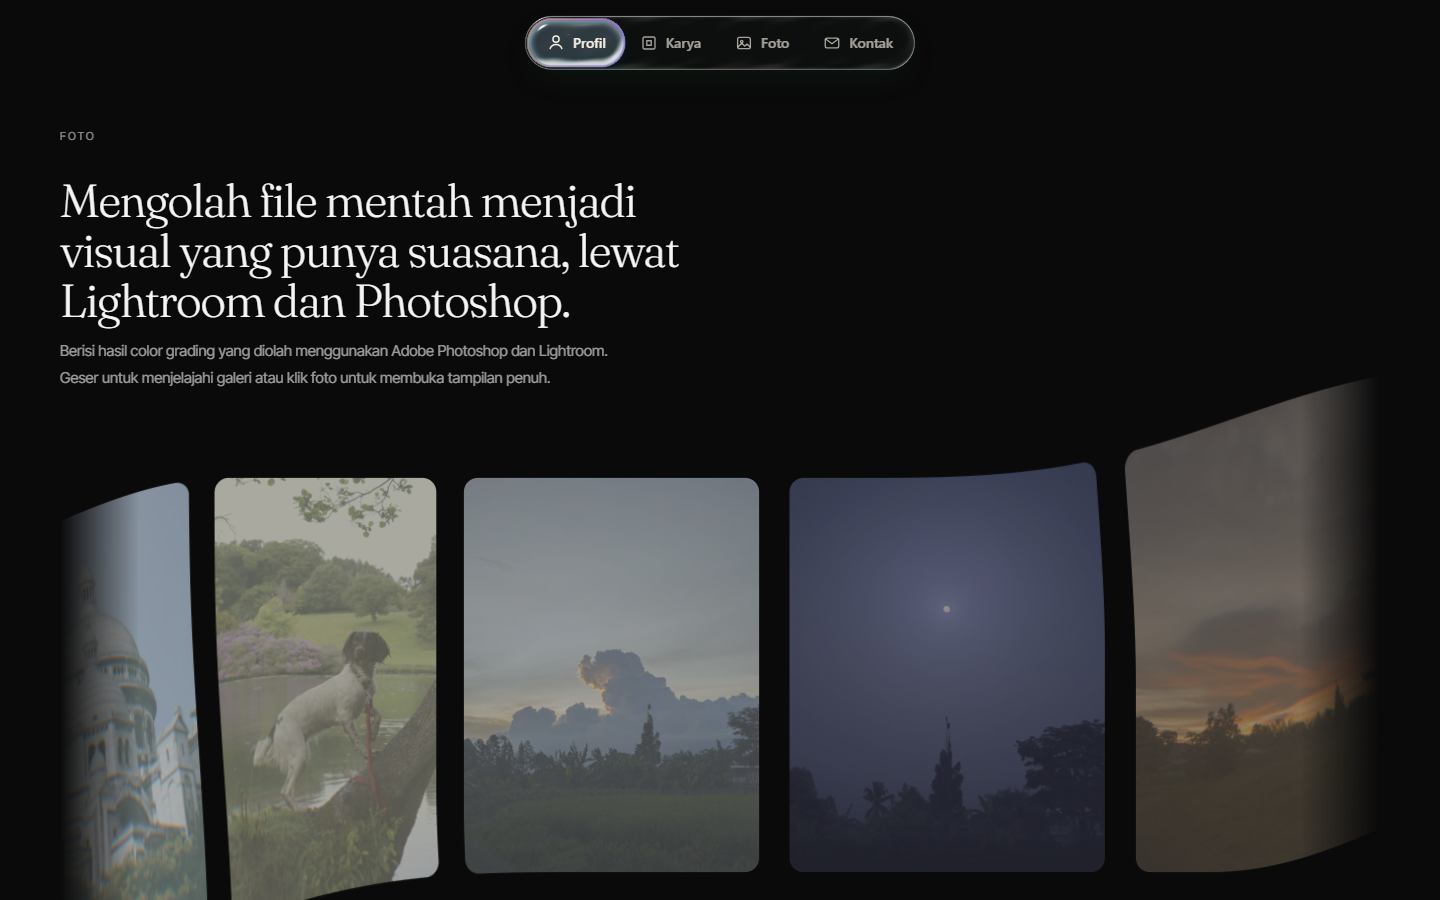
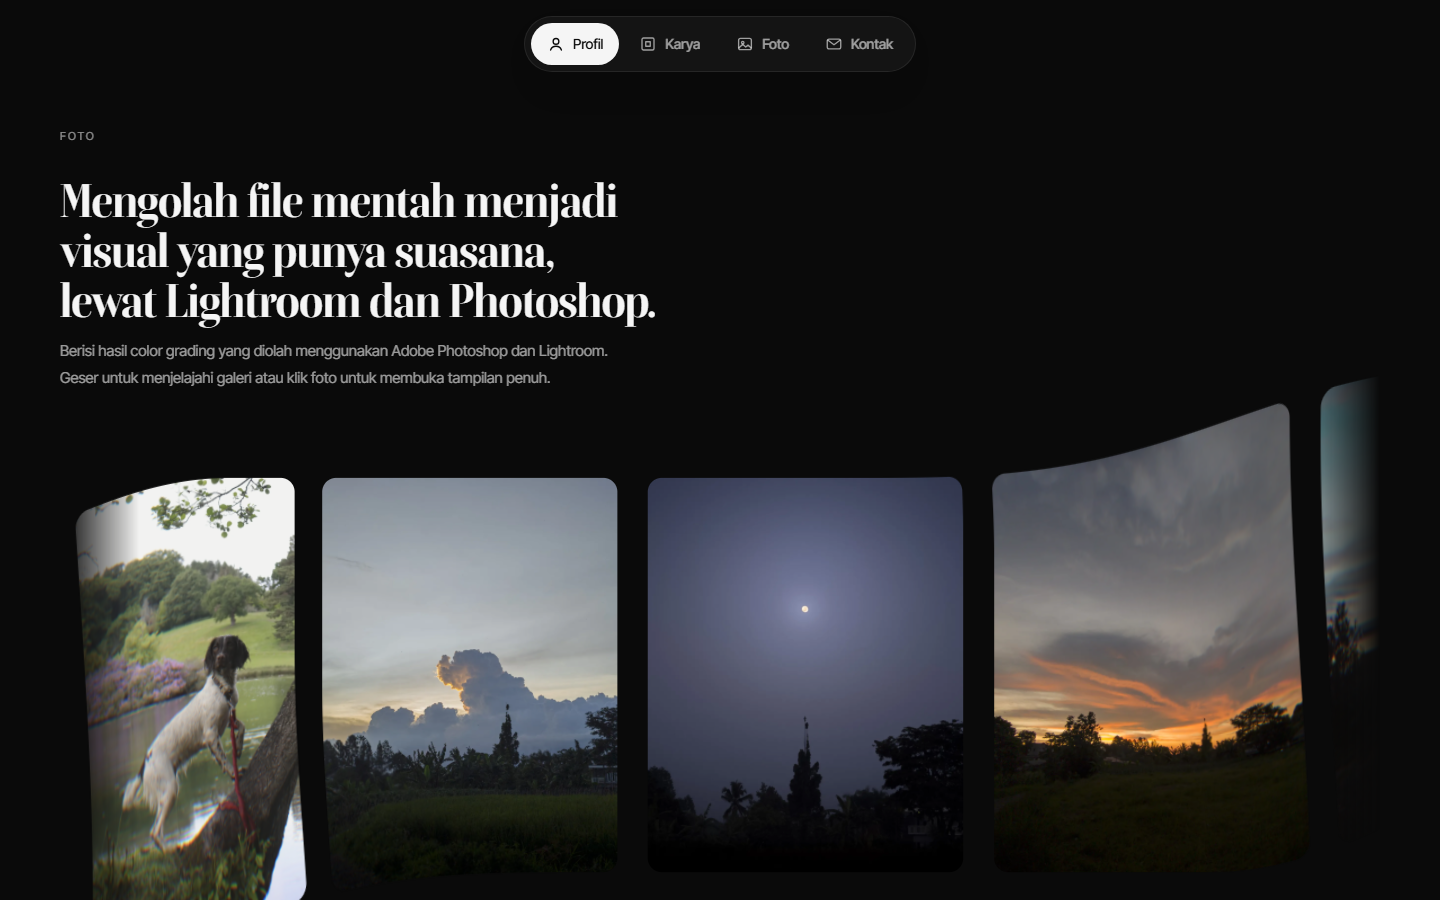
fix: kecilkan framing black hole di layar portrait
FOV mobile 3 -> 2,1 supaya cincin tidak memenuhi seluruh lebar layar.
Poster mobile dirender ulang dengan framing yang sama.

diff --git a/src/components/sections/Home.tsx b/src/components/sections/Home.tsx
@@ -40,7 +40,7 @@ export function Home() {
         <div aria-hidden="true" className="pointer-events-none absolute inset-x-0 bottom-0 h-[42vh] bg-gradient-to-b from-transparent via-bg/70 to-bg" />
 
         <div className="relative mx-auto flex min-h-[100svh] max-w-[1400px] flex-col justify-end px-6 pb-10 pt-28 md:px-10">
-          <h1 className="font-display text-[clamp(3.6rem,15vw,12rem)] font-light leading-[0.86] tracking-[-0.045em] text-white">
+          <h1 className="font-display text-[clamp(3.6rem,15vw,12rem)] font-bold leading-[0.86] tracking-[-0.045em] text-white">
             Yasin Anr
           </h1>
 
@@ -61,7 +61,7 @@ export function Home() {
           <p className={`${LABEL} md:col-span-3`}>Profil</p>
 
           <div className="md:col-span-10">
-            <p data-reveal className="max-w-4xl font-display text-[clamp(1.55rem,3.2vw,2.6rem)] font-light leading-[1.22] tracking-[-0.02em] text-ink">
+            <p data-reveal className="max-w-4xl font-display text-[clamp(1.55rem,3.2vw,2.6rem)] font-bold leading-[1.22] tracking-[-0.02em] text-ink">
               Building smart web and mobile apps—menggabungkan fondasi software engineering dengan kapabilitas AI modern.
             </p>
           </div>
@@ -102,7 +102,7 @@ export function Home() {
             <a
               data-reveal
               href="mailto:myasinaldinar@gmail.com"
-              className="inline-block font-display text-[clamp(1.6rem,4.4vw,3.4rem)] font-light leading-[1.1] tracking-[-0.03em] text-ink transition-colors hover:text-accent"
+              className="inline-block font-display text-[clamp(1.6rem,4.4vw,3.4rem)] font-bold leading-[1.1] tracking-[-0.03em] text-ink transition-colors hover:text-accent"
             >
               myasinaldinar@gmail.com
             </a>

diff --git a/src/app.css b/src/app.css
@@ -1,18 +1,19 @@
 @import "tailwindcss";
 
 /* Font di-host sendiri (bukan Google Fonts) supaya tidak ada stylesheet
-   pihak ketiga yang memblokir render. Dua berkas saja, sudah di-subset ke
-   rentang karakter yang dipakai situs ini (Latin, Latin-ext, tanda baca).
+   pihak ketiga yang memblokir render.
 
-   Fraunces di-instance di wght 300 karena seluruh teks display memakai
-   font-light; sumbu opsz (optical size) tetap hidup. Inter Tight tetap
-   variable untuk 400/500. */
+   Boska (Fontshare/ITF, gratis untuk personal & komersial) dipakai sebagai
+   pengganti "Collapse Bold" yang komersial: sama-sama serif display kontras
+   tinggi, sempit, dengan serif tajam. Cuma ada satu bobot (700) karena semua
+   teks display memang bold.
+   Inter Tight tetap variable untuk 400/500. */
 @font-face {
-  font-family: "Fraunces";
+  font-family: "Boska";
   font-style: normal;
-  font-weight: 300;
+  font-weight: 700;
   font-display: swap;
-  src: url("/fonts/fraunces-300.woff2") format("woff2");
+  src: url("/fonts/boska-700.woff2") format("woff2");
 }
 @font-face {
   font-family: "Inter Tight";
@@ -45,7 +46,7 @@
   --color-line: var(--line, rgba(255,255,255,.08));
   --color-accent: var(--accent, #c83e31);
   --color-accent-text: var(--accent-text, #f08a78);
-  --font-display: "Fraunces", ui-serif, Georgia, serif;
+  --font-display: "Boska", ui-serif, Georgia, serif;
   --font-sans: "Inter Tight", ui-sans-serif, system-ui, sans-serif;
 }
 
@@ -79,8 +80,8 @@
   h3,
   .display {
     font-family: var(--font-display);
-    font-weight: 300;
-    letter-spacing: -0.03em;
+    font-weight: 700;
+    letter-spacing: -0.02em;
     line-height: 1.08;
     text-wrap: balance;
   }

diff --git a/src/components/sections/Projects.tsx b/src/components/sections/Projects.tsx
@@ -34,7 +34,7 @@ function Body({ p }: { p: Project }) {
   return (
     <>
       <p className="text-[11px] uppercase tracking-[0.16em] text-ink-faint">{p.badge}</p>
-      <h3 className="mt-3 font-display text-[clamp(1.5rem,2.4vw,2rem)] font-light leading-tight tracking-[-0.03em] text-ink">{p.name}</h3>
+      <h3 className="mt-3 font-display text-[clamp(1.5rem,2.4vw,2rem)] font-bold leading-tight tracking-[-0.03em] text-ink">{p.name}</h3>
       <p className="mt-2 text-[13.5px] text-ink-soft">{p.tagline}</p>
       <p className="mt-3 text-[13.5px] leading-[1.7] text-ink-soft">{p.description}</p>
       <Stack items={p.stack} />
@@ -53,7 +53,7 @@ export function Projects() {
         <p className={`${LABEL} md:col-span-3`}>Karya</p>
 
         <div className="md:col-span-10">
-          <h2 data-reveal className="font-display text-[clamp(1.9rem,3.6vw,2.9rem)] font-light tracking-[-0.03em] text-ink">
+          <h2 data-reveal className="font-display text-[clamp(1.9rem,3.6vw,2.9rem)] font-bold tracking-[-0.03em] text-ink">
             Lima proyek, semuanya bisa dibaca kodenya.
           </h2>
           <p data-reveal className="mt-4 max-w-xl text-[15px] leading-[1.75] text-ink-soft">

diff --git a/src/components/ui/black-hole/renderer.ts b/src/components/ui/black-hole/renderer.ts
@@ -56,6 +56,7 @@ export function createRenderer({ canvas }: RendererOptions) {
     cameraRoll: settings.cameraRoll,
     mouseYaw: settings.mouseYaw,
     centerFade: settings.centerFade,
+    fov: settings.fov,
   };
   const mobileQuery = window.matchMedia(MOBILE_QUERY);
   const applyResponsiveLayout = () => {
@@ -67,6 +68,9 @@ export function createRenderer({ canvas }: RendererOptions) {
             centerY: 0,
             cameraRoll: 0,
             mouseYaw: 0,
+            // Layar portrait menyempitkan sudut pandang horizontal; fov dikecilkan
+            // supaya black hole tidak memenuhi seluruh lebar layar.
+            fov: 2.1,
             centerFade: 1,
           }
         : desktopLayout

diff --git a/src/components/sections/Photos.tsx b/src/components/sections/Photos.tsx
@@ -50,7 +50,7 @@ export function Photos() {
       <div className="grid gap-10 md:grid-cols-12 md:gap-8">
         <p className={`${LABEL} md:col-span-3`}>Foto</p>
         <div className="md:col-span-10">
-          <h2 data-reveal className="max-w-2xl font-display text-[clamp(1.9rem,3.6vw,2.9rem)] font-light tracking-[-0.03em] text-ink">
+          <h2 data-reveal className="max-w-2xl font-display text-[clamp(1.9rem,3.6vw,2.9rem)] font-bold tracking-[-0.03em] text-ink">
             Mengolah file mentah menjadi visual yang punya suasana, lewat Lightroom dan Photoshop.
           </h2>
           <p data-reveal className="mt-3 max-w-xl text-[15px] leading-[1.75] text-ink-soft">

diff --git a/index.html b/index.html
@@ -19,7 +19,7 @@
       }
     </style>
     <!-- Font self-host: preload supaya teks utama tidak menunggu unduhan font. -->
-    <link rel="preload" href="/fonts/fraunces-300.woff2" as="font" type="font/woff2" crossorigin />
+    <link rel="preload" href="/fonts/boska-700.woff2" as="font" type="font/woff2" crossorigin />
     <link rel="preload" href="/fonts/inter-tight.woff2" as="font" type="font/woff2" crossorigin />
   </head>
   <body>

diff --git a/README.md b/README.md
@@ -42,7 +42,7 @@ npm run preview  # cek hasil build
 ```
 src/
   App.tsx                         susun navbar + layer laser + Home
-  app.css                         token warna, font (Fraunces + Inter Tight), animasi reveal
+  app.css                         token warna, font (Boska + Inter Tight), animasi reveal
   data/projects.ts                5 proyek: nama, tagline, stack, repo
   data/photos.ts                  23 foto galeri
   components/
@@ -62,7 +62,7 @@ src/
 public/
   assets/black-hole/              poster hero (fallback + paint pertama)
   assets/photos/                  foto galeri (.webp); forweb/small/ = varian HP
-  fonts/                          Fraunces + Inter Tight (subset, self-host)
+  fonts/                          Boska (display) + Inter Tight (self-host)
   icon-*.png                      favicon dari logo Y
 ```
 
@@ -72,7 +72,7 @@ Dua konteks GPU dipakai berdampingan: **WebGL2** (kartu laser, carousel) dan **W
 
 - **Berkas laser.** Satu shader `LaserFlow` di `ui/laser-flow/LaserFlow.jsx`. Untuk kartu unggulan, kanvasnya dipasang selebar layar mulai dari bawah hero sampai ±560px di bawah kartu, dengan `mask-image` supaya ujungnya tidak terpotong. Di bawah tepi kartu, bentuk tumpahan "dibekukan" pada tinggi tepi lalu dilanjutkan dengan `fall` yang bertambah, sehingga cahayanya turun dan melebar natural, tanpa menyorot garis bawah kartu atau kartu proyek di bawahnya.
 - **Posisi sinar** diatur lewat `BEAM_ON_CARD` (rasio lebar kartu) di `laser-card-layer.tsx`, warnanya lewat prop `color`.
-- **Font** di-host sendiri di `public/fonts/` (bukan Google Fonts) dan di-preload: Fraunces sudah di-subset dan di-instance di wght 300, Inter Tight tetap variable untuk 400/500. Tidak ada stylesheet pihak ketiga yang memblokir render.
+- **Font** di-host sendiri di `public/fonts/` (bukan Google Fonts) dan di-preload: **Boska** untuk semua teks display (serif kontras tinggi, sempit, satu bobot 700) sebagai padanan gratis dari "Collapse Bold" yang komersial — lisensi Fontshare/ITF, gratis untuk personal maupun komersial; **Inter Tight** variable untuk teks UI di 400/500. Tidak ada stylesheet pihak ketiga yang memblokir render.
 - **Pemuatan bertahap.** Kanvas LaserFlow dan carousel foto diimpor dinamis dan baru dipasang saat elemennya mendekati viewport (250px). Foto galeri tidak diunduh sebelum pengguna mendekati seksi Foto; di layar sempit dipakai varian `forweb/small/` (±1,7 MB, bukan ±2,9 MB), dan teksturnya diperkecil sebelum masuk GPU.
 - **Poster black hole.** `public/assets/black-hole/` berisi dua poster (desktop 51 KB, HP 13 KB) yang dirender dari efek aslinya. Poster tampil langsung sejak paint pertama, jadi layar tidak kosong selama WebGPU mengompilasi shader; canvas live memudar di atasnya saat siap. Di perangkat tanpa WebGPU poster itu yang jadi tampilan final, bukan gradien polos.
 - **Efek hemat di HP, tampilan tetap sama.** Black hole merender di 0,75 skala internal (0,6 untuk perangkat kelas bawah), dibatasi 30fps, dan punya penyesuaian otomatis: kalau frame lambat berturut-turut resolusinya turun, kalau sudah longgar naik lagi (lihat `black-hole/quality.ts`). Laser memakai batas resolusi 1600px dan 30fps di HP. Carousel mematikan autoplay di HP (geser manual tetap jalan) dan mengunggah tekstur maksimal 1000px.
